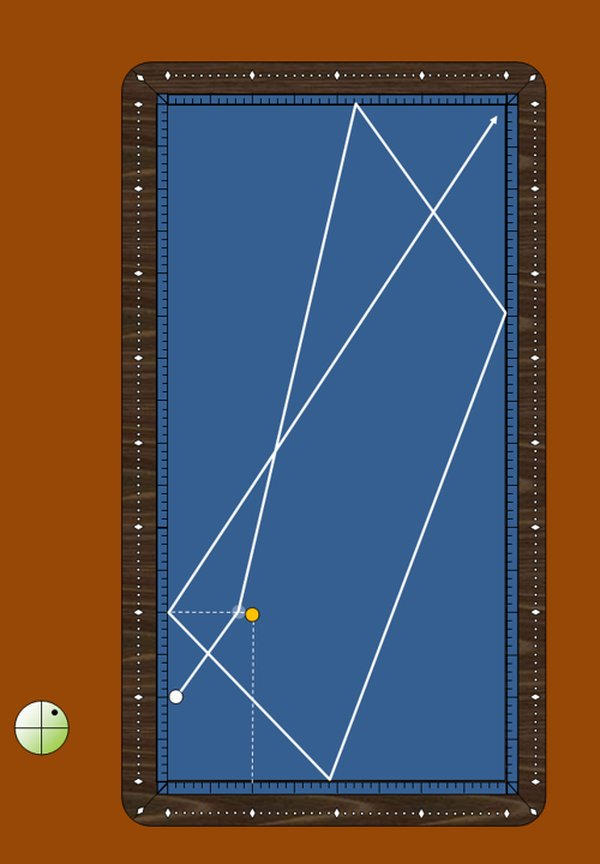
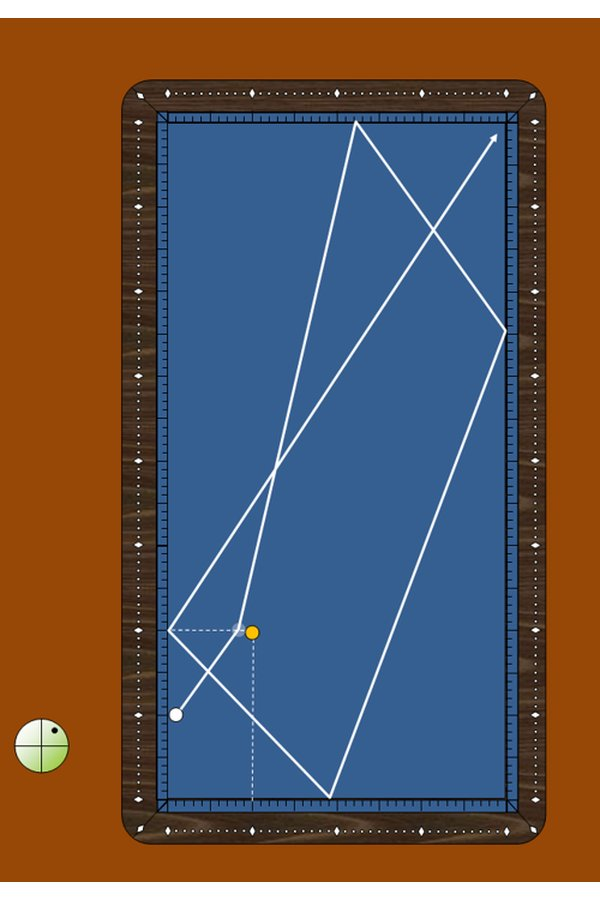
Unificat dimensions de totes les imatges a 600x900px
- Modificat processar.py: implementat crop/padding centrat per garantir mides fixes
- Regenerades 21 imatges exercici-##.jpg amb dimensions exactes 600x900px
- Afegit check_jpg_sizes.py per analitzar i verificar dimensions
- Totes les imatges ara tenen la mateixa mida (abans variaven entre 853-931px d'alçada)

diff --git a/processar.py b/processar.py
@@ -16,12 +16,26 @@ for f in os.listdir(DIR):
         # Les imatges originals són ~464-504px d'amplada x 720px d'alçada
         
         w, h = img.size
-        # Target: generar imatges verticals de 600px d'amplada amb la mateixa relació d'aspecte
+        # Target: generar imatges verticals de 600x900px (dimensions fixes per totes)
         target_width = 600
+        target_height = 900
         aspect_ratio = h / w
-        target_height = int(target_width * aspect_ratio)
+        temp_height = int(target_width * aspect_ratio)
         
-        img = img.resize((target_width, target_height), Image.Resampling.LANCZOS)
+        # Primer redimensionem mantenint l'aspect ratio
+        img = img.resize((target_width, temp_height), Image.Resampling.LANCZOS)
+        
+        # Després apliquem crop o padding per ajustar a 600x900px exactes
+        if temp_height > target_height:
+            # Crop centrat (tallem per dalt i baix)
+            top = (temp_height - target_height) // 2
+            img = img.crop((0, top, target_width, top + target_height))
+        elif temp_height < target_height:
+            # Padding centrat (afegim espai blanc per dalt i baix)
+            new_img = Image.new('RGB', (target_width, target_height), (255, 255, 255))
+            top = (target_height - temp_height) // 2
+            new_img.paste(img, (0, top))
+            img = new_img
         
         if img.mode != 'RGB':
             rgb = Image.new('RGB', img.size, (255,255,255))

diff --git a/check_jpg_sizes.py b/check_jpg_sizes.py
@@ -1,0 +1,22 @@
+from PIL import Image
+import os
+
+DIR = "images/exercicis"
+jpgs = sorted([f for f in os.listdir(DIR) if f.startswith('exercici-') and f.endswith('.jpg')])
+
+print("Dimensions actuals dels exercici-##.jpg:\n")
+dimensions = {}
+for jpg in jpgs:
+    img = Image.open(os.path.join(DIR, jpg))
+    size = img.size
+    dimensions[jpg] = size
+    print(f"{jpg}: {size[0]}x{size[1]} (w x h)")
+
+# Estadístiques
+widths = [d[0] for d in dimensions.values()]
+heights = [d[1] for d in dimensions.values()]
+
+print(f"\n--- Estadístiques ---")
+print(f"Amplades: min={min(widths)}, max={max(widths)}, mitjana={sum(widths)//len(widths)}")
+print(f"Alçades: min={min(heights)}, max={max(heights)}, mitjana={sum(heights)//len(heights)}")
+print(f"Total imatges: {len(jpgs)}")
